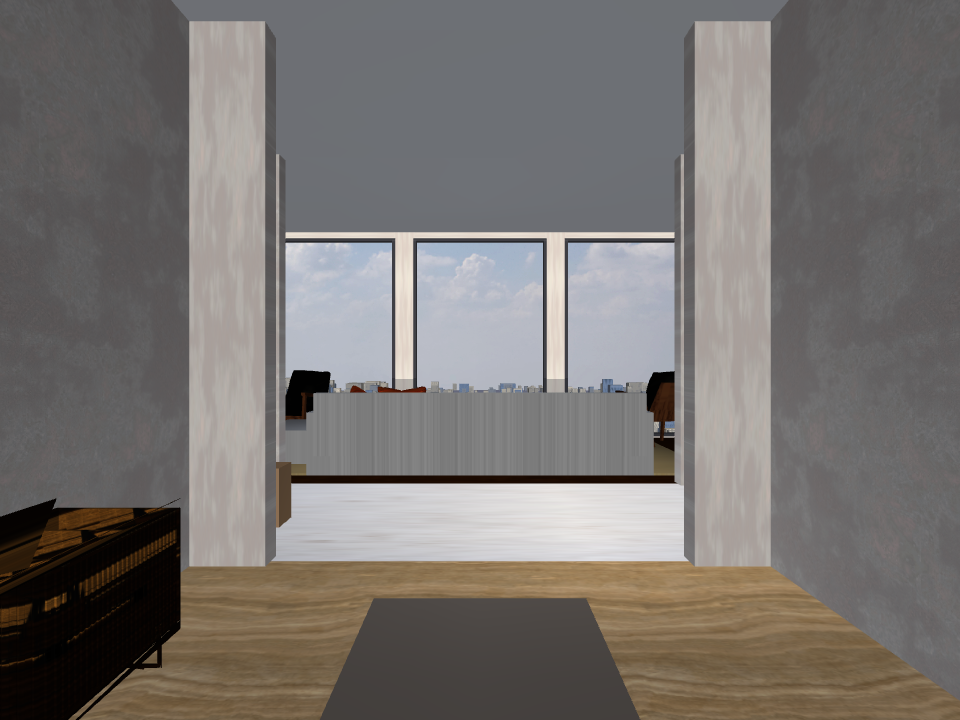
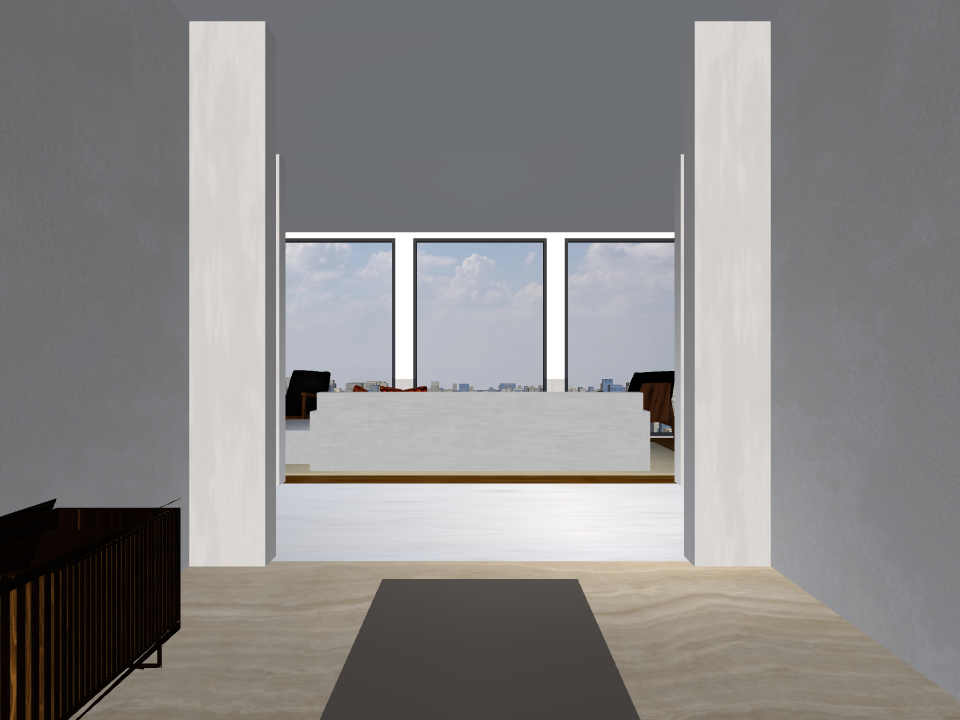
apt1 两把端餐椅不再插进桌子，外加一道管家具相互穿插的闸门
Jeff 看截图发现的：餐桌东西两端那两把椅子，靠背整个穿过桌面板。

量下来是 x 方向重叠 0.18 m，各自同时插进桌面板和望板。根因是**一套家具用了两套余量**：
六把边椅按「桌沿留 0.07」摆，两把端椅却按「留 -0.18」（源码里写的是 ±1.25 这个字面量，
= 桌半宽 1.20 + 0.05，而边椅那边是桌半深 0.55 + 0.30）。八个坐标各写各的字面量，
把「椅沿离桌沿留多少」这个关系拆散给八处各记一遍，对不上是迟早的事。

修法不是挪数字，是**参数化**：DN_GAP=0.07 一个数，八把椅子的位置全由它算出来
（DN_CX/DN_CY/DN_W/DN_D/DN_CHAIR 一并提成具名常量）。现在八把离桌沿都是 +0.070 m。

⭐ 中途被 check_reachability 拦下来一次，值得记：我本来打算把整组东移 0.30
（理由是"桌子该摆在可用跨度的正中，而不是房间正中"——西墙那个 0.52 m 深的餐边柜
把西端吃掉了）。结果一移就红：东侧那条通道是通大客厅的，挤到 0.60 m 以下之后
餐厅有 4.0 ㎡ 变成走不进去的孤岛。拿闸门扫了一遍摆位才确认：**保留八把椅子的话，
桌子只能待在原位 -4.00**。所以最终只动了那两把椅子，桌子/吊灯/六把边椅逐字节未变。

⚠ 如实登记一个没解决的：西端那把椅子离餐边柜只有 1 cm。那一端本来就塞不下——
即便把 DN_GAP 收到 0 也只剩 8 cm。几何合法、两道闸门都过，但真人拉不出那把椅子。
要彻底解决只能去掉 dn_w（变七椅）或加宽餐厅，已写进 layout 的注释。

## 新闸门 check_furniture_overlap

家具相互穿插此前**没有任何一项自检管**——这次 23 项全绿而 bug 就在画面正中。

⛔ 宽判据不可用：拿"任意两件家具包围盒相交"去查，三个场景分别命中 193/104/71 对，
绝大多数合法（沙发是底座+靠背+扶手拼的、植物是树干+叶片、浴缸外壳+内胆、
嵌入式烤箱本来就嵌在台面里）。逐对报数只会淹死人——v0.12 在"逐缝报净宽"上刚吃过同样的亏。

⭐ 收窄成「至少一件穿了真网格外衣」+ 同名前缀排除：house1/house2 零命中，
apt1 只剩 10 对，全部登记在 FURNITURE_MAY_OVERLAP（嵌入式电器 5、抱枕 2、站在地毯上 3），
一行一个理由。例外是登记制。

故障注入验过：把端椅改回 -2.75 重新生成 → 当场红，且指名 dn_table_top / dn_table_apron_e
两件；改回来再绿。

## 配图

⚠ apt1 那 15 张配图**全部变了，但不全是这次的功劳**：v0.12 改了 layout 55 行却没重出配图，
它们还停在 v0.10 改名那次。所以这次一并追上了 v0.12 的成果（床转正、沙发北移、
长凳删除、地毯挪位），其中只有 A1/A2/V4 三张受本次餐椅影响。
（house1 配图重跑后逐字节不变，顺带证明了渲染是确定性的。）

diff --git a/tools/check_scene.py b/tools/check_scene.py
@@ -857,6 +857,82 @@ def check_furniture_not_through_wall(key: str, layout) -> list[str]:
     return errs
 
 
+# 小于这个量的重叠不算数（毫米级的贴合摆放是建模常态，比如花瓶正好放在柜面上）。
+OVERLAP_TOL = 0.005
+
+# ⭐ 允许互相插进去的家具对 —— **登记制**，一行一个理由。
+# ⛔ 往这儿加之前先问一句：这是"设计就该这样"，还是"我懒得改"？只有前者能进。
+#    没有理由的例外会让这道闸门在两年内退化成一张永远全绿的白名单。
+# 名字里的 `*` 是前缀通配（`gr_ch*` 一次盖住两把扶手椅）。
+FURNITURE_MAY_OVERLAP = [
+    # 嵌入式电器本来就是嵌进台面/吊柜里的，这是厨房的做法不是错
+    ("kt_counter", "kt_range", "嵌入式灶具嵌在台面里"),
+    ("kt_counter", "kt_sink", "水槽嵌在台面里"),
+    ("kt_counter_top", "kt_range", "同上，台面板那一层"),
+    ("kt_counter_top", "kt_sink", "同上，台面板那一层"),
+    ("kt_upper", "kt_hood", "抽油烟机嵌在吊柜中间"),
+    # 软装：抱枕本来就该陷进沙发里
+    ("gr_sofa_back", "gr_pillows", "抱枕靠在沙发背上"),
+    ("gr_sofa_arm*", "gr_pillows", "抱枕挨着扶手"),
+    # 地毯是平铺的，家具**站在它上面**，重叠量 = 地毯厚度
+    ("gr_rug", "gr_coffee", "茶几站在地毯上"),
+    ("gr_rug", "gr_ch*", "扶手椅站在地毯上"),
+]
+
+
+def _overlap_allowed(a: str, b: str) -> bool:
+    """这一对是不是登记过的合法重叠（顺序无关，支持 `前缀*` 通配）。"""
+    def hit(pat: str, name: str) -> bool:
+        return name.startswith(pat[:-1]) if pat.endswith("*") else name == pat
+    return any((hit(p, a) and hit(q, b)) or (hit(p, b) and hit(q, a))
+               for p, q, _why in FURNITURE_MAY_OVERLAP)
+
+
+def check_furniture_overlap(key: str, layout) -> list[str]:
+    """⭐⭐ 穿了真网格外衣的家具，不许和别的家具插在一起。
+
+    ⚠ 判据**故意很窄**，因为宽判据完全不可用：拿"任意两件家具的包围盒相交"去查，
+       三个场景分别命中 193 / 104 / 71 对，而绝大多数是**合法**的——沙发是底座+靠背+
+       扶手拼出来的、植物是树干+叶片、浴缸是外壳+内胆、马桶带水箱。逐对报数只会淹死人。
+       （同样的教训 v0.12 在"逐缝报净宽"上刚吃过一次。）
+    ⭐ 所以只查**至少一件穿了真网格外衣**的组合：外衣是照着真家具建模的，插进别的东西里
+       在画面上一眼可见（2026-08-08 就是 Jeff 看截图发现餐椅靠背穿过桌面的），
+       而白盒子之间的重叠往往是建模手法。同一件家具的零件靠名字前缀排除。
+       实测这么一收：house1 / house2 **零命中**，apt1 只剩 10 对且全部登记在案。
+    ⛔ 例外走 `FURNITURE_MAY_OVERLAP`，一行一个理由。
+
+    背景：apt1 的两把端餐椅曾整个插进桌面板 0.18 m —— 边椅按"桌沿留 0.30"摆、
+    端椅却按"留 0.05"摆，一套家具两套余量。**当时 22 项自检一条都没红**，
+    因为没有任何一项管家具之间的关系。
+    """
+    errs: list[str] = []
+    items = [it for it in layout.FURNITURE if it["type"] in ("box", "cylinder", "sphere")]
+    for i, a in enumerate(items):
+        for b in items[i + 1:]:
+            if a["room"] != b["room"]:
+                continue
+            if not ((a.get("mesh") or {}).get("id") or (b.get("mesh") or {}).get("id")):
+                continue                       # 两件都是白盒子 → 多半是拼件，不管
+            na, nb = a["name"], b["name"]
+            if na.startswith(nb) or nb.startswith(na):
+                continue                       # 同一件家具的零件（名字共前缀）
+            if _overlap_allowed(na, nb):
+                continue
+            ax0, ax1, ay0, ay1 = _yaw_aabb(a)
+            bx0, bx1, by0, by1 = _yaw_aabb(b)
+            az0, az1 = a["pos"][2] - a["size"][2] / 2, a["pos"][2] + a["size"][2] / 2
+            bz0, bz1 = b["pos"][2] - b["size"][2] / 2, b["pos"][2] + b["size"][2] / 2
+            ov = min(min(ax1, bx1) - max(ax0, bx0),
+                     min(ay1, by1) - max(ay0, by0),
+                     min(az1, bz1) - max(az0, bz0))
+            if ov > OVERLAP_TOL:
+                _fail(errs, f"家具 {na} 和 {nb}（{a['room']}）插在一起 {ov * 100:.1f} cm"
+                            f"——真网格会明显穿模。要么挪开，要么去 "
+                            f"FURNITURE_MAY_OVERLAP 登记并写明理由")
+    return errs
+
+
+
 # layout 里"声明了就该在产物里看得见"的清单：名字 → 产物里对应 geom 名字的前缀。
 # ⛔ 为什么要这条检查（2026-08-05 加）：`_wall_arts()` 从写出来那天起就没被 build() 调用过，
 #    house1 声明的 11 幅挂画一幅都没进过产物，而**生成器不会报错、截图也看不出少了什么**。
@@ -1551,6 +1627,7 @@ CHECKS = [
     ("⭐⭐ 门真的走得过去（两侧在屋里 + 净通行宽）", check_door_passable),
     ("⭐⭐ 每间屋机器人都走得进去（可通行性）", check_reachability),
     ("⭐ 家具没有捅穿墙伸进隔壁", check_furniture_not_through_wall),
+    ("⭐⭐ 家具之间没有插在一起", check_furniture_overlap),
     ("⭐ 声明的东西都真的进了产物", check_no_dead_declarations),
     ("⭐ 入户门从屋里看得见", check_front_door_visible),
     ("⭐ 贴墙家具的正面没朝着墙", check_mesh_faces_room),

diff --git a/scenes/apt1/layout.py b/scenes/apt1/layout.py
@@ -661,18 +661,36 @@ FURNITURE += F.mesh_piece("gr_lamp", "great_room", -1.23, 3.00,
                           size=(0.46, 0.46, 0.98), mesh="floor_lamp")
 
 # ── 餐厅：长桌八椅 + 吊灯下的餐边柜 ────────────────────────────────
-FURNITURE += F.table("dn_table", "dining", -4.00, 5.00, 2.40, 1.10, h=0.75)
+# ⛔⛔ 桌心**不能往东挪**：东侧那条通道通向大客厅，挪过去就把它挤到 0.60 m 以下，
+#    `check_reachability` 会当场红（实测：桌心 -3.90 起，餐厅有 4.0 ㎡ 变成走不进去的孤岛）。
+#    2026-08-08 我一度想「把整组摆到可用跨度的正中」，被这道闸门拦下来了——
+#    ⭐ 房间的中点不等于家具该在的地方，通道优先。
+# ⚠ 代价是**西端那把椅子离餐边柜只有 1 cm**（柜东面 -5.74，椅背 -5.73）：
+#    这一端本来就塞不下——柜子占了 0.52 m，即便把 DN_GAP 收到 0，也只剩 8 cm。
+#    几何上不相交、两道闸门都过，但真人是拉不出这把椅子来坐的。
+#    真要彻底解决只能二选一：去掉 `dn_w`（变七椅），或把餐厅加宽。⛔ 别再靠挪桌子解决。
+DN_CX, DN_CY = -4.00, 5.00        # 餐桌组中心（⛔ 别东移，理由见上）
+DN_W, DN_D = 2.40, 1.10           # 桌面 长(x) × 宽(y)
+DN_CHAIR = (0.46, 0.60, 1.00)     # 一把餐椅的碰撞盒：宽 × 深 × 高
+# ⭐⭐ 椅沿离桌沿留多少 —— **八把共用这一个数**，位置全部由它算出来。
+#    2026-08-08 之前是各写各的字面量：边椅按 0.30、端椅按 0.05 摆，于是**两把端椅整个插进
+#    桌面板 0.18 m**（截图上一眼可见靠背穿过桌面）。一套家具两套余量，迟早对不上。
+#    ⛔ 别再把椅子的坐标写成字面量：写成字面量就等于把这个关系拆散给八个地方各记一遍。
+DN_GAP = 0.07
+_DN_OFF = DN_GAP + DN_CHAIR[0] / 2.0      # 桌沿 → 椅心 的距离（椅子无论朝哪，横向都是 0.46 宽）
+
+FURNITURE += F.table("dn_table", "dining", DN_CX, DN_CY, DN_W, DN_D, h=0.75)
 # ⭐ 餐椅八把全换真网格（每把 5k 面，八把 4 万面——纯视觉不算凸包，编译代价可忽略）
 for i, dx in enumerate((-0.80, 0.00, 0.80)):
-    FURNITURE += F.mesh_piece(f"dn_n{i}", "dining", -4.00 + dx, 5.85, yaw=-90,
-                              size=(0.46, 0.60, 1.00), mesh="dining_chair")
-    FURNITURE += F.mesh_piece(f"dn_s{i}", "dining", -4.00 + dx, 4.15, yaw=90,
-                              size=(0.46, 0.60, 1.00), mesh="dining_chair")
-FURNITURE += F.mesh_piece("dn_e", "dining", -2.75, 5.00, yaw=180,
-                          size=(0.46, 0.60, 1.00), mesh="dining_chair")
-FURNITURE += F.mesh_piece("dn_w", "dining", -5.25, 5.00, yaw=0,
-                          size=(0.46, 0.60, 1.00), mesh="dining_chair")
-FURNITURE += F.mesh_piece("dn_chand", "dining", -4.00, 5.00, z=2.72,
+    FURNITURE += F.mesh_piece(f"dn_n{i}", "dining", DN_CX + dx, DN_CY + DN_D / 2 + _DN_OFF,
+                              yaw=-90, size=DN_CHAIR, mesh="dining_chair")
+    FURNITURE += F.mesh_piece(f"dn_s{i}", "dining", DN_CX + dx, DN_CY - DN_D / 2 - _DN_OFF,
+                              yaw=90, size=DN_CHAIR, mesh="dining_chair")
+FURNITURE += F.mesh_piece("dn_e", "dining", DN_CX + DN_W / 2 + _DN_OFF, DN_CY,
+                          yaw=180, size=DN_CHAIR, mesh="dining_chair")
+FURNITURE += F.mesh_piece("dn_w", "dining", DN_CX - DN_W / 2 - _DN_OFF, DN_CY,
+                          yaw=0, size=DN_CHAIR, mesh="dining_chair")
+FURNITURE += F.mesh_piece("dn_chand", "dining", DN_CX, DN_CY, z=2.72,
                           size=(0.70, 0.66, 0.88), mesh="chandelier")
 # ⭐ 餐边柜：同一件真木柜网格，贴餐厅西墙（净空 x ≥ -6.26），yaw=90 转成南北向
 FURNITURE += F.mesh_piece("dn_sideboard", "dining", -6.00, 5.00, yaw=90,
